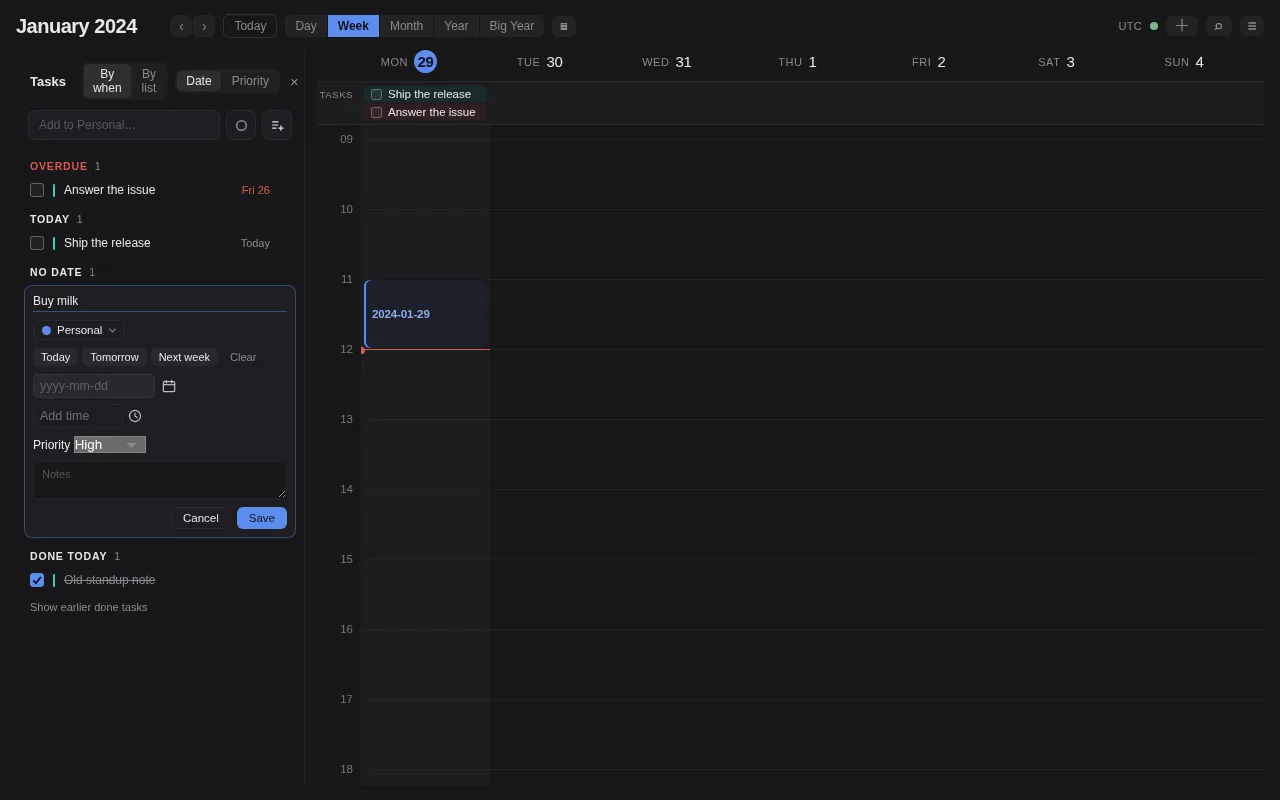
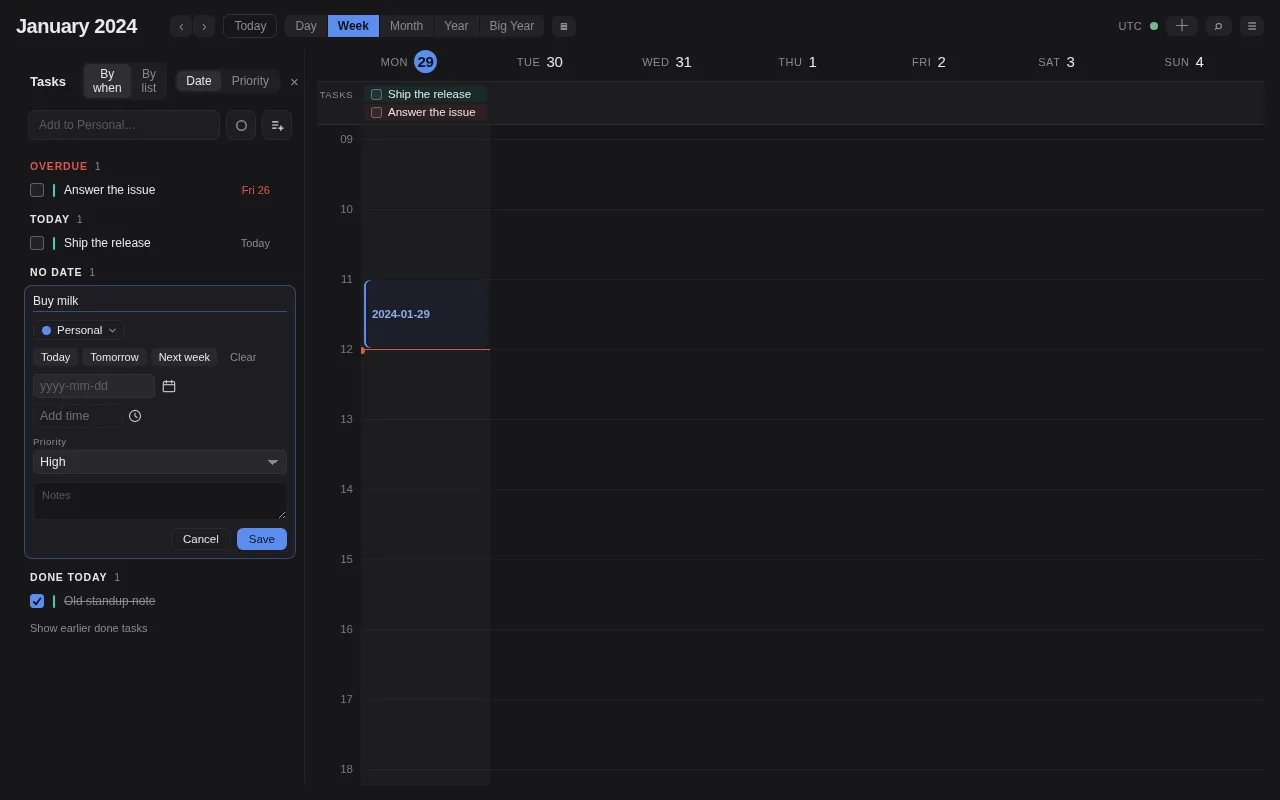
style(tasks): style the editor's Priority select like its neighbours
The global `select` rule gives the chevron and `appearance: none`, but no
font, colour, background, border or radius, so the pane's one native select
drew the platform's light widget beside the dark DateField/TimeField. The
editor now styles it as a field (matching those inputs) with a muted label,
and `background-color` rather than the shorthand so the chevron survives.

Changed region(s): [[0.0, 0.6875, 0.125, 0.8125], [0.125, 0.625, 0.25, 0.6875], [0.0312, 0.5312, 0.125, 0.625]]

diff --git a/ui/src/lib/TasksSidebar.svelte b/ui/src/lib/TasksSidebar.svelte
@@ -714,11 +714,13 @@
                            isToday={draft.date === '' || draft.date === dateInputValue(Date.now())}
                            onchange={(v) => { if (v && draft.date === '') draft.date = dateInputValue(Date.now()); }} />
               </div>
-              <label class="field">
-                <span class="lab">Priority</span>
-                <!-- A native select, so the app's global select styling and
-                     its keyboard behaviour apply for free; the raw value is
-                     what the app stores, 0 for none. -->
+              <label class="efield">
+                <span class="elab">Priority</span>
+                <!-- A native select, so its keyboard behaviour is the
+                     platform's; the global rule gives it the chevron and the
+                     chrome below gives it the same field look as the date and
+                     time inputs. The raw value is what the app stores, 0 for
+                     none. -->
                 <select aria-label="Priority" disabled={saving}
                         onchange={(e) => (draft = { ...draft, priority: Number(e.currentTarget.value) })}>
                   {#each PRIORITY_CHOICES as c}
@@ -1014,6 +1016,19 @@
   .when { display: flex; flex-wrap: wrap; align-items: center; gap: 6px 8px; }
   .enotes { font: inherit; font-size: 11px; resize: vertical; padding: 6px 8px; border-radius: 5px;
             border: 1px solid var(--hairline); background: var(--bg); color: var(--text); }
+  /* The editor's one native select. The global `select` rule gives it the
+     chevron and `appearance: none`, but no font, colour, border or radius —
+     so without this it drew the platform's light widget beside the dark
+     DateField/TimeField. `background-color`, not the `background` shorthand,
+     which would clobber the global chevron. */
+  .efield { display: flex; flex-direction: column; gap: 3px; min-width: 0; }
+  .elab { font-size: 9.5px; color: var(--muted); letter-spacing: .05em; }
+  .efield select { font: inherit; font-size: 12.5px; color: var(--text);
+                   background-color: color-mix(in srgb, var(--text) 5%, transparent);
+                   border: 1px solid var(--hairline); border-radius: 5px;
+                   padding: 4px 22px 4px 6px; }
+  .efield select:focus { outline: 1px solid var(--accent); outline-offset: -1px; }
+  .efield select:disabled { opacity: .5; cursor: default; }
   .eact { display: flex; justify-content: flex-end; gap: 6px; }
   .eact button { appearance: none; -webkit-appearance: none; font: inherit; font-size: 11.5px;
                  padding: 4px 11px; border-radius: 6px; cursor: pointer;
